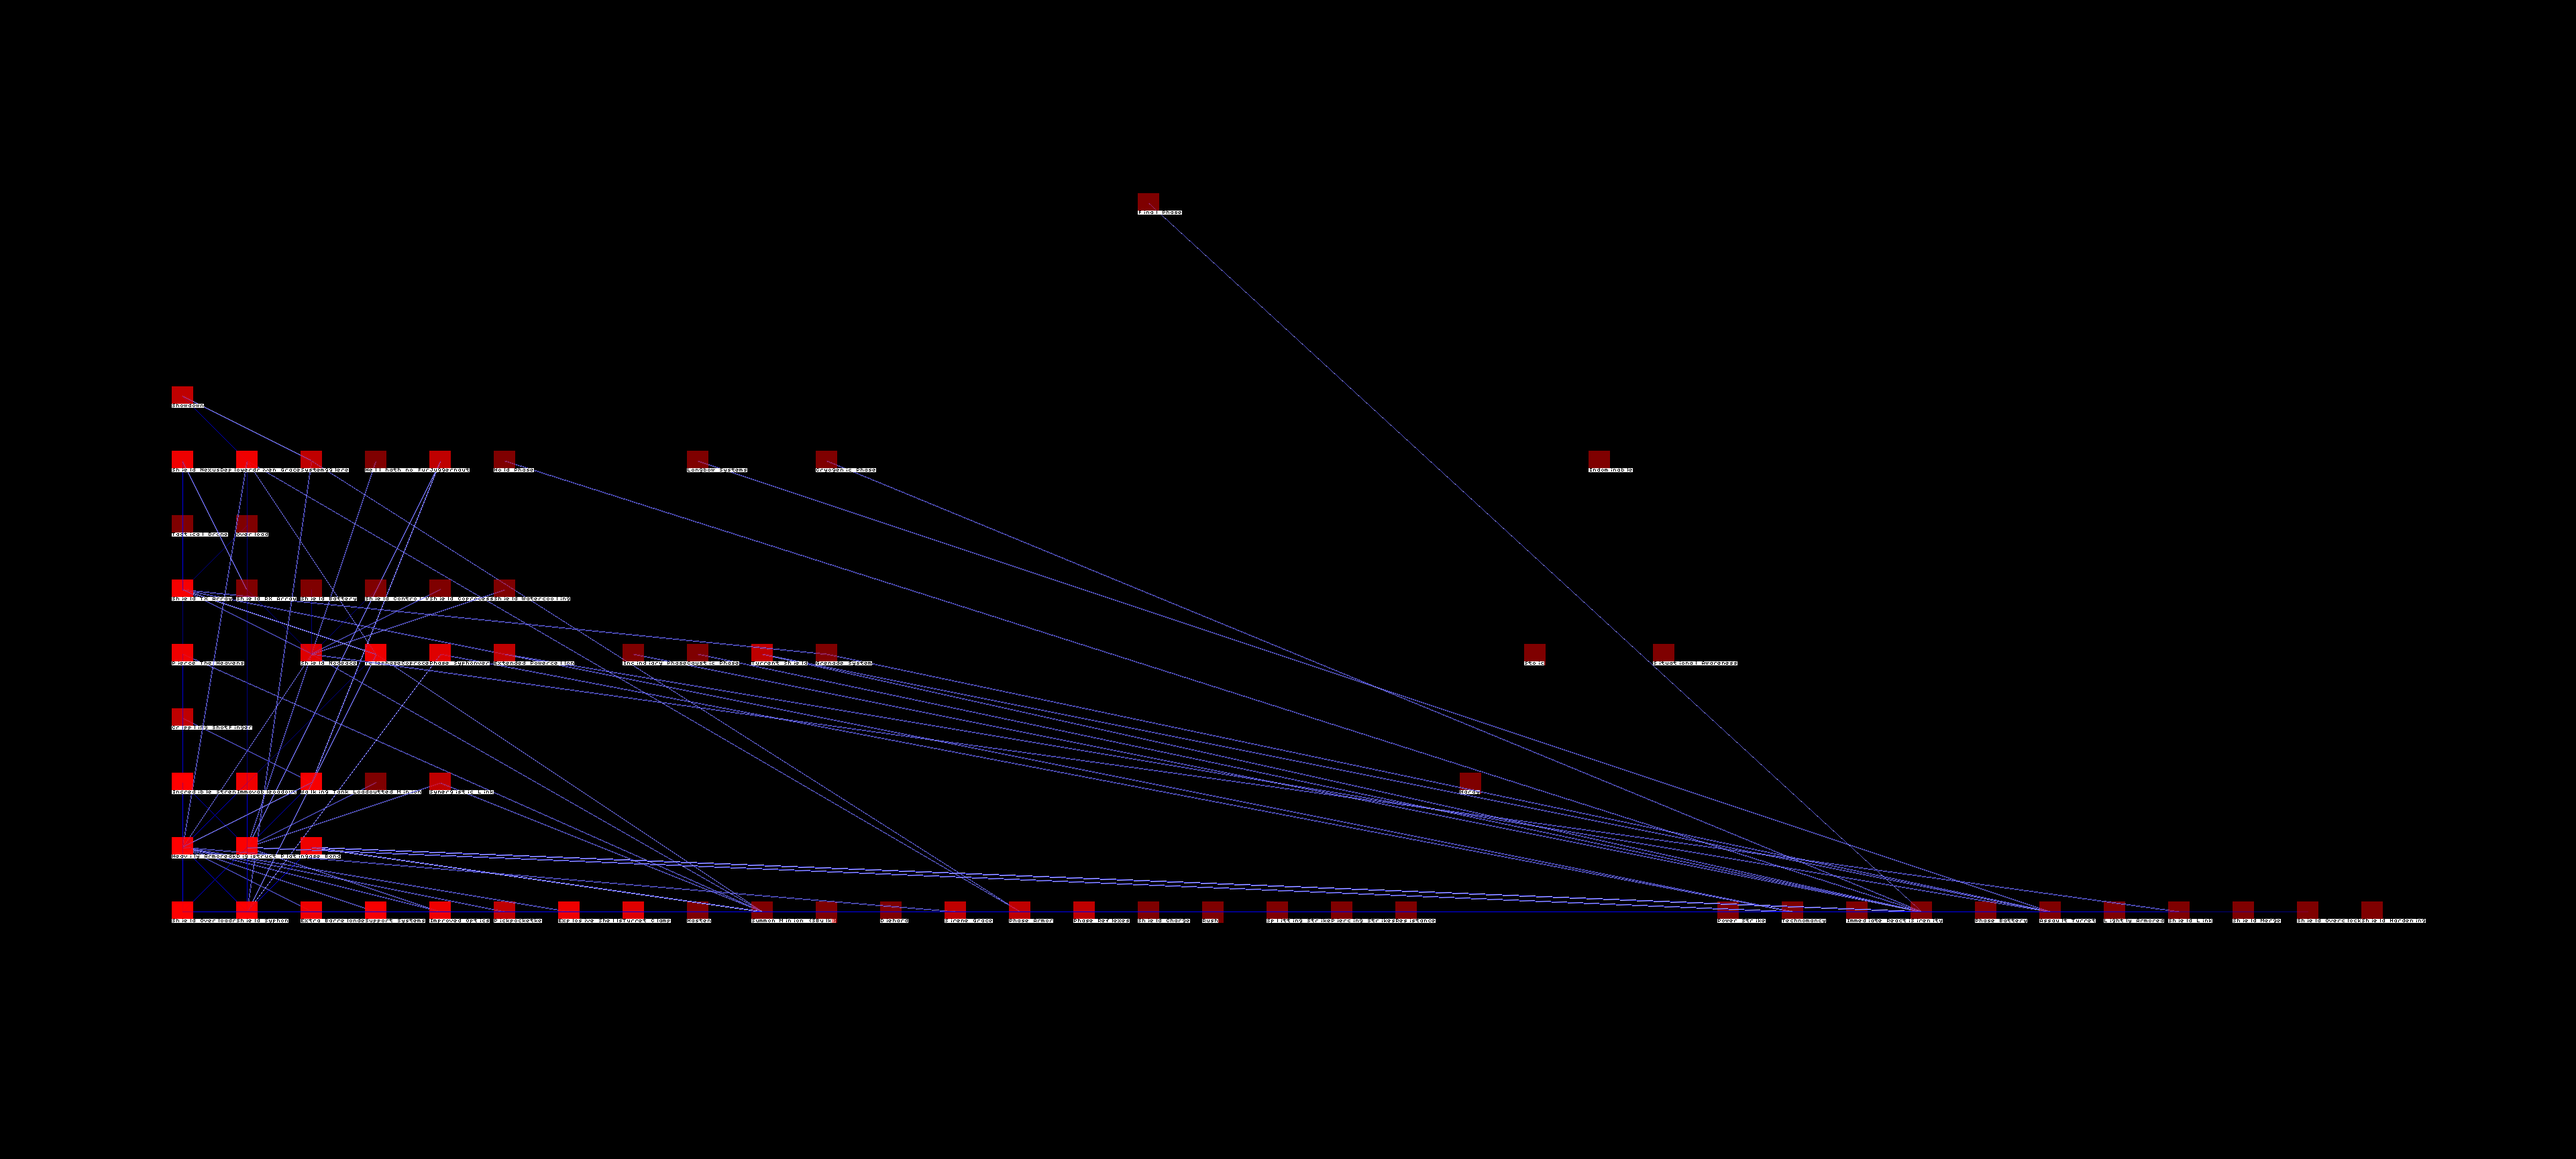
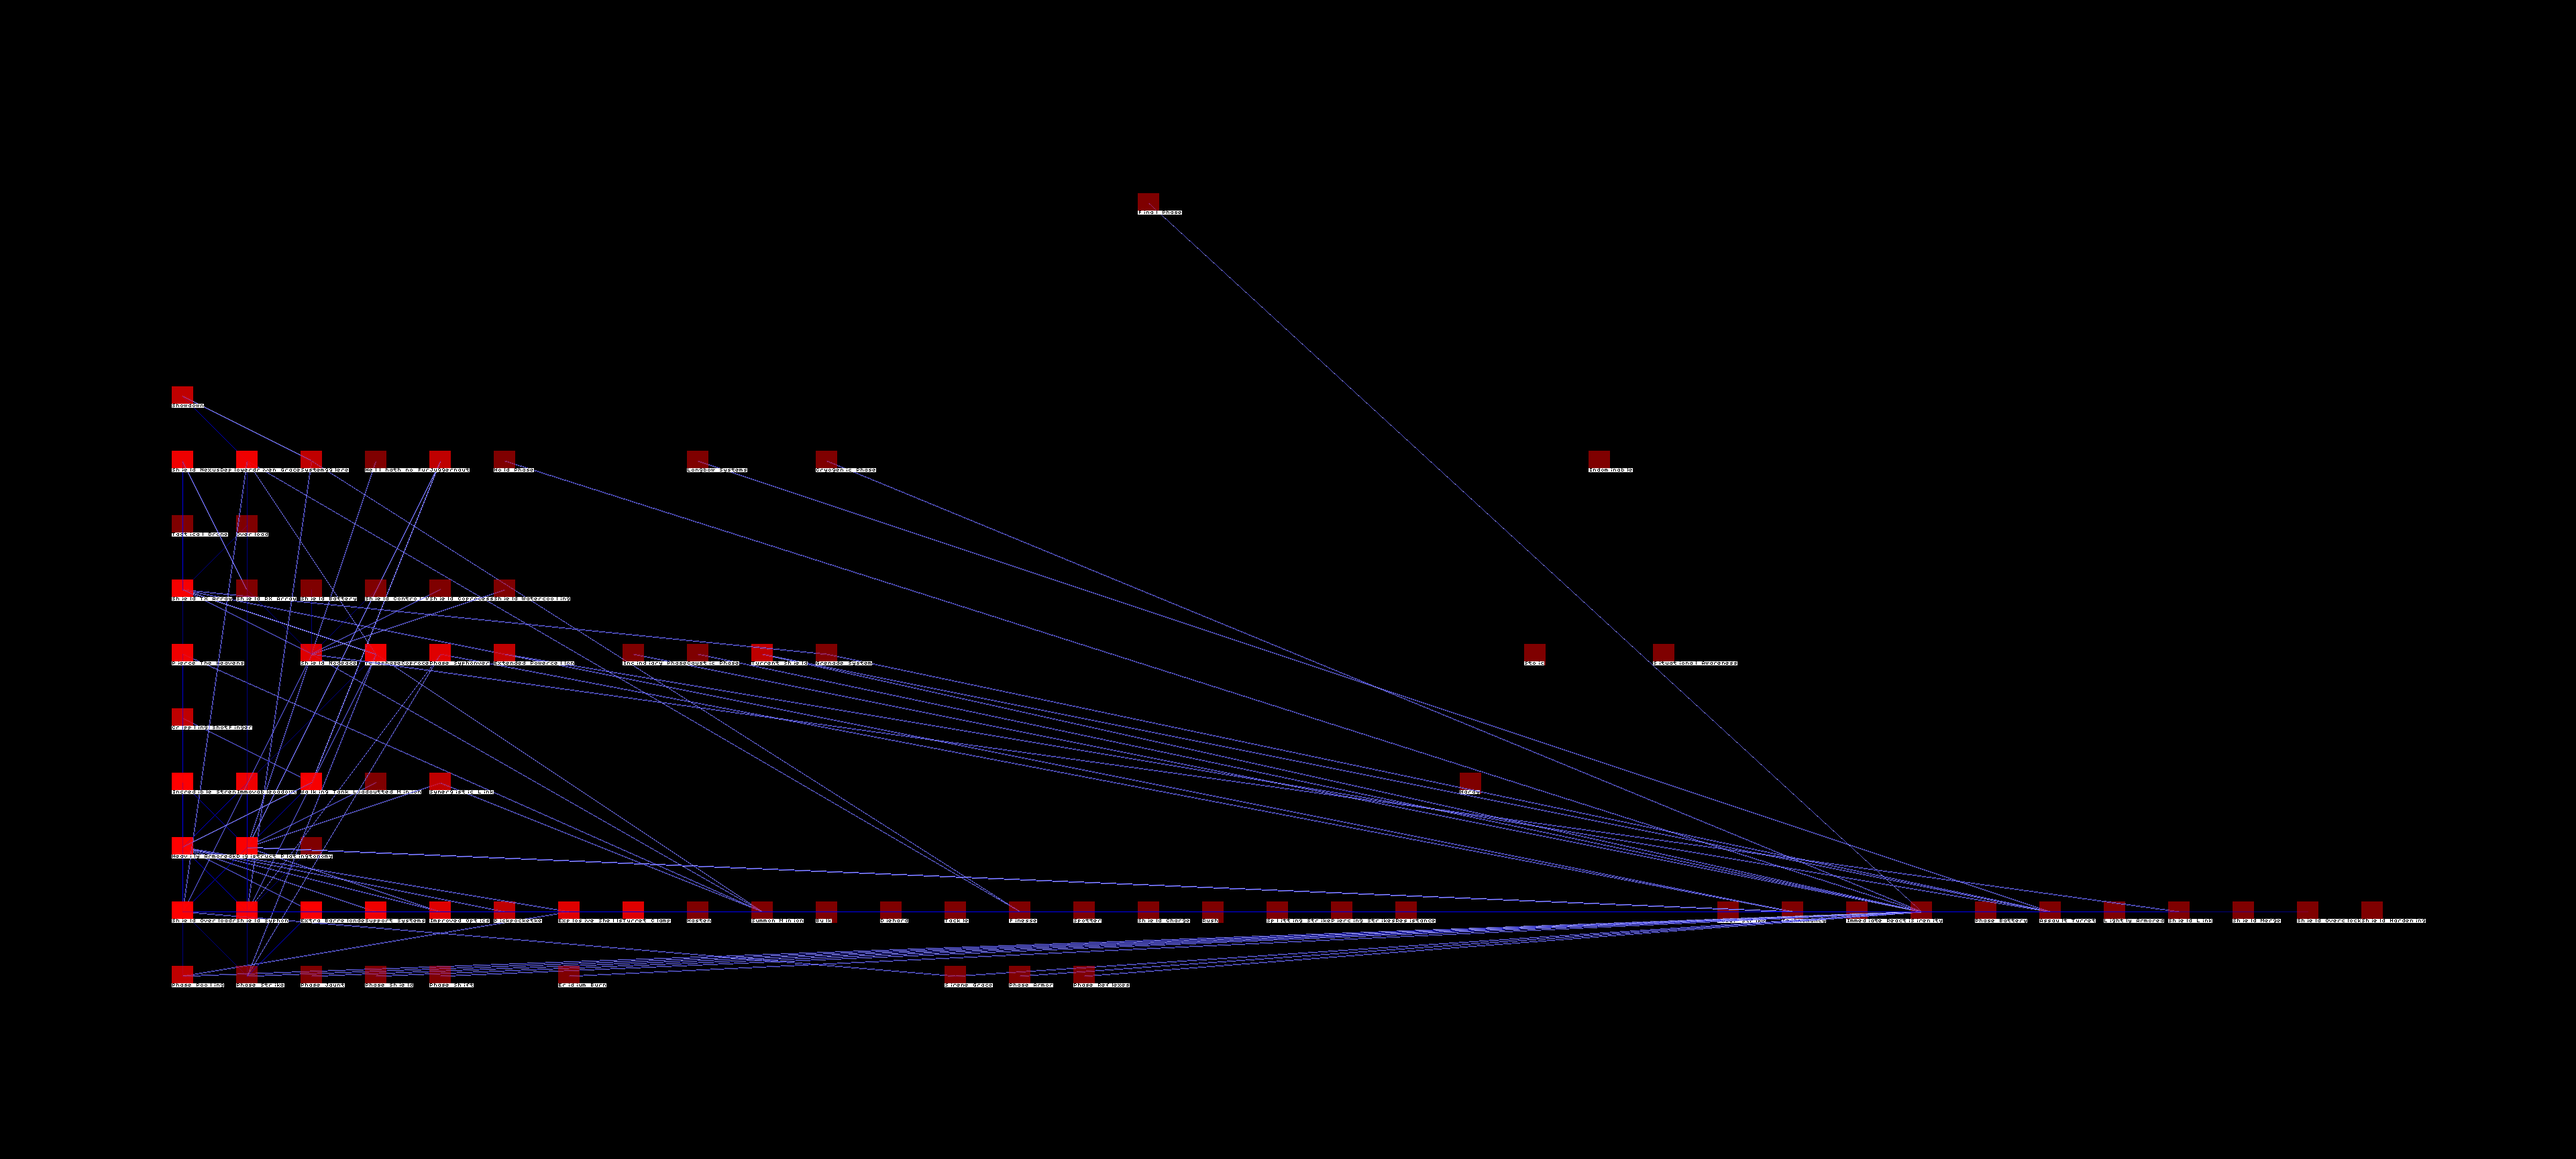
Round 1 bugfix

Changed region(s): [[0.0625, 0.7812, 0.7188, 0.875], [0.0938, 0.7188, 0.1562, 0.75]]

diff --git a/test.rb b/test.rb
@@ -23,7 +23,7 @@ nodes << (node_cauterize = Node.new('Cauterize',0))
 nodes << (node_defribulatinground = Node.new('Defribulating Round',0))
 nodes << (node_fortify = Node.new('Fortify',0))
 nodes << (node_hasten = Node.new('Hasten',0))
-nodes << (node_summonminionsmall = Node.new('Summon Minion (Small)',0))
+nodes << (node_summonminion = Node.new('Summon Minion',0))
 nodes << (node_summonally = Node.new('Summon Ally',5))
 nodes << (node_summonpatron = Node.new('Summon Patron',8))
 nodes << (node_minionstrike = Node.new('Minion Strike',0))
@@ -106,7 +106,7 @@ nodes << (node_autonomy = Node.new('Autonomy',0))
 nodes << (node_capacitors = Node.new('Capacitors',0))
 nodes << (node_microfusion = Node.new('Microfusion',0))
 nodes << (node_multitranseiver = Node.new('Multitranseiver',5))
-nodes << (node_remotedigistruct = Node.new('Remote Digistruct',5))
+nodes << (node_remotedigistruction = Node.new('Remote Digistruction',5))
 nodes << (node_digistructwiz = Node.new('Digistruct Wiz',0))
 nodes << (node_tacticaldrone = Node.new('Tactical Drone',0))
 nodes << (node_overload = Node.new('Overload',0))
@@ -256,10 +256,10 @@ node_assaultdrone.add_child(node_autonomy)
 node_technomancy.add_child(node_capacitors)
 node_technomancy.add_child(node_microfusion)
 node_technomancy.add_child(node_multitranseiver)
-node_technomancy.add_child(node_remotedigistruct)
+node_technomancy.add_child(node_remotedigistruction)
 node_remotedigistruction.add_child(node_digistructwiz)
-node_digistructai.add_child(node_tacticaldrone)
-node_digistructoperation.add_child(node_overload)
+node_digistructwiz.add_child(node_tacticaldrone)
+node_digistructwiz.add_child(node_overload)
 node_immediatereaction.add_child(node_parry)
 node_sirenity.add_child(node_phasepooling)
 node_sirenity.add_child(node_phasestrike)
@@ -290,7 +290,7 @@ node_sirenity.add_child(node_phasereflexes)
 node_sirenity.add_child(node_finalphase)
 node_assaultturret.add_child(node_turretbarrier)
 node_assaultturret.add_child(node_turretarmor)
-node_assaultturrent.add_child(node_extrabarrel)
+node_assaultturret.add_child(node_extrabarrel)
 node_assaultturret.add_child(node_supportsystems)
 node_assaultturret.add_child(node_improvedoptics)
 node_assaultturret.add_child(node_extendedpowercell)
@@ -324,5 +324,5 @@ node_shieldnode.add_child(node_shieldwatercooling)
 
 graph = Graph.new
 graph.load_data(nodes)
-#graph.render
-graph.layout
+graph.render
+graph.domain_sort

diff --git a/result.rb b/result.rb
@@ -21,7 +21,7 @@ nodes << (node_cauterize = Node.new('Cauterize',0))
 nodes << (node_defribulatinground = Node.new('Defribulating Round',0))
 nodes << (node_fortify = Node.new('Fortify',0))
 nodes << (node_hasten = Node.new('Hasten',0))
-nodes << (node_summonminionsmall = Node.new('Summon Minion (Small)',0))
+nodes << (node_summonminion = Node.new('Summon Minion',0))
 nodes << (node_summonally = Node.new('Summon Ally',5))
 nodes << (node_summonpatron = Node.new('Summon Patron',8))
 nodes << (node_minionstrike = Node.new('Minion Strike',0))
@@ -104,7 +104,7 @@ nodes << (node_autonomy = Node.new('Autonomy',0))
 nodes << (node_capacitors = Node.new('Capacitors',0))
 nodes << (node_microfusion = Node.new('Microfusion',0))
 nodes << (node_multitranseiver = Node.new('Multitranseiver',5))
-nodes << (node_remotedigistruct = Node.new('Remote Digistruct',5))
+nodes << (node_remotedigistruction = Node.new('Remote Digistruction',5))
 nodes << (node_digistructwiz = Node.new('Digistruct Wiz',0))
 nodes << (node_tacticaldrone = Node.new('Tactical Drone',0))
 nodes << (node_overload = Node.new('Overload',0))
@@ -254,11 +254,12 @@ node_assaultdrone.add_child(node_autonomy)
 node_technomancy.add_child(node_capacitors)
 node_technomancy.add_child(node_microfusion)
 node_technomancy.add_child(node_multitranseiver)
-node_technomancy.add_child(node_remotedigistruct)
+node_technomancy.add_child(node_remotedigistruction)
 node_remotedigistruction.add_child(node_digistructwiz)
-node_digistructai.add_child(node_tacticaldrone)
-node_digistructoperation.add_child(node_overload)
+node_digistructwiz.add_child(node_tacticaldrone)
+node_digistructwiz.add_child(node_overload)
 node_immediatereaction.add_child(node_parry)
+node_sirenrace.add_child(node_sirenity)
 node_sirenity.add_child(node_phasepooling)
 node_sirenity.add_child(node_phasestrike)
 node_phasestrike.add_child(node_phaselock)
@@ -288,7 +289,7 @@ node_sirenity.add_child(node_phasereflexes)
 node_sirenity.add_child(node_finalphase)
 node_assaultturret.add_child(node_turretbarrier)
 node_assaultturret.add_child(node_turretarmor)
-node_assaultturrent.add_child(node_extrabarrel)
+node_assaultturret.add_child(node_extrabarrel)
 node_assaultturret.add_child(node_supportsystems)
 node_assaultturret.add_child(node_improvedoptics)
 node_assaultturret.add_child(node_extendedpowercell)

diff --git a/graph.rb b/graph.rb
@@ -74,16 +74,18 @@ class Graph
     canvas = PNG::Canvas.new @width,@height, PNG::Color::Black
     
     traverse(@root) do |node|
+      puts "Width: #{@width}, Height: #{@height}"
       #Draw line, then icons
       x = (node.x     * (@icon + @padding)) + @edge_pad
       y = (node.y)
+      puts "X: #{x}, Y: #{y}"
       cX = x + @icon/2
       cY = y + @icon/2
 
       node.parents.each do |pNode|
         if pNode != @root
           pX = (pNode.x     * (@icon + @padding)) + @edge_pad
-          pY = (pNode.y * (@icon + @padding)) + @edge_pad
+          pY = (pNode.y)
           pCX = pX + @icon/2
           pCY = pY + @icon/2
           canvas.line(pCX, pCY, cX, cY, @path_color)
